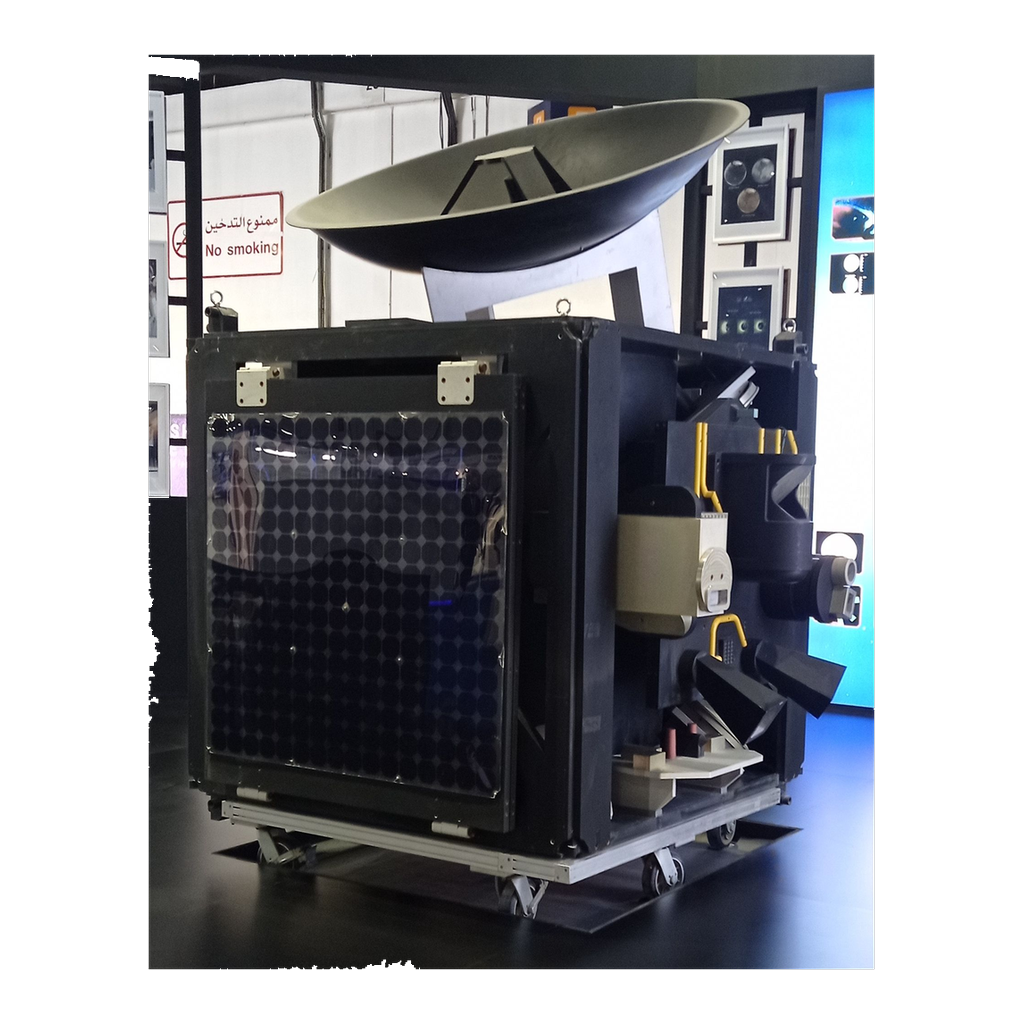
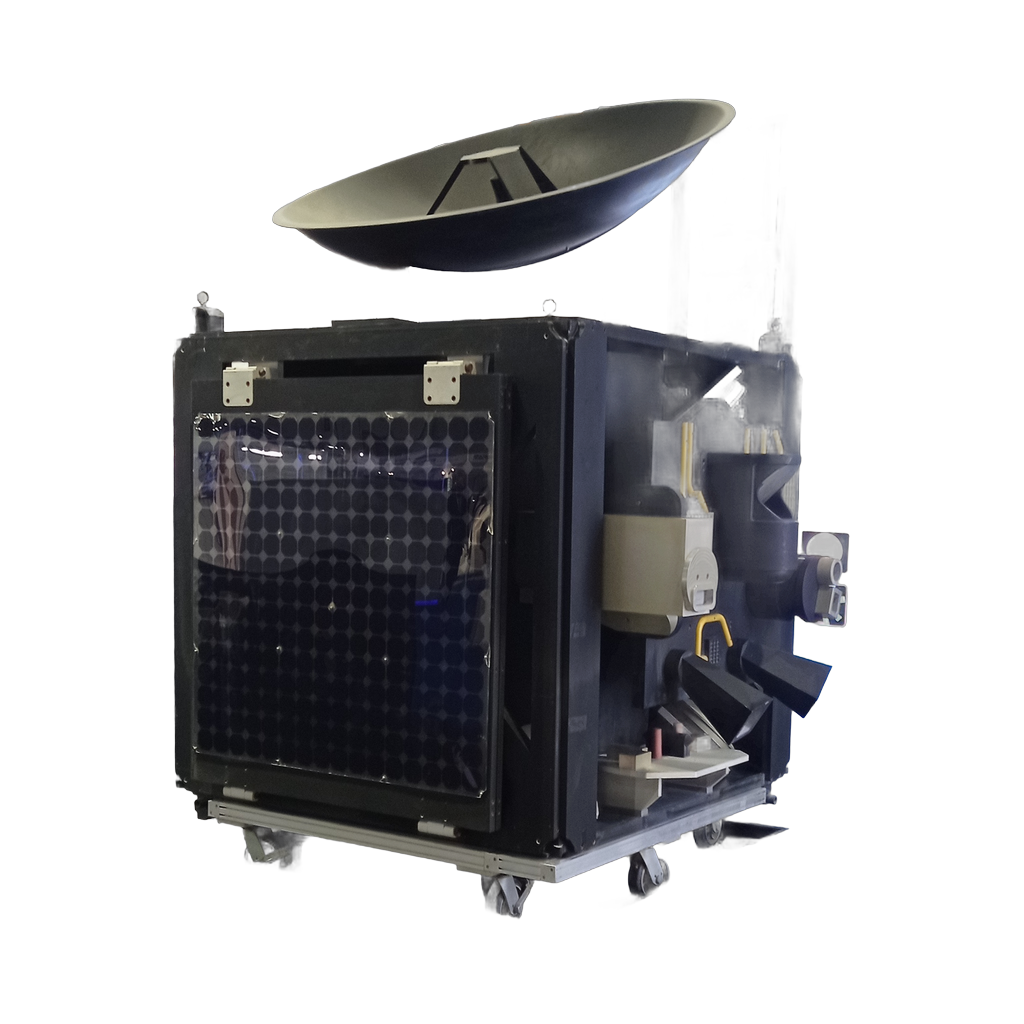
Put Hope and Solar Orbiter photos back on the map.
Those two were falling back to cartoons. Solar Orbiter uses ESA's cut-out render; Hope uses the IAC mockup with the hall removed.

diff --git a/src/BodyArt.test.tsx b/src/BodyArt.test.tsx
@@ -153,10 +153,6 @@ describe("cartoon body art", () => {
   it("has photos for every spacecraft in the catalog", () => {
     expect(SPACECRAFT_ART_IDS.length).toBeGreaterThan(20);
     for (const id of SPACECRAFT_ART_IDS) {
-      if (id === "solar-orbiter" || id === "hope") {
-        expect(BODY_ART[id]).toBeUndefined();
-        continue;
-      }
       expect(BODY_ART[id]).toBe(publicUrl(`bodies/${id}.png`));
       expect(fs.existsSync(path.join(repoRoot, "public", "bodies", `${id}.png`))).toBe(true);
     }
@@ -170,26 +166,6 @@ describe("cartoon body art", () => {
         stdio: ["ignore", "pipe", "pipe"],
       }),
     ).not.toThrow();
-  });
-
-  it("draws Solar Orbiter as a probe, not a square sun photo", () => {
-    const { container } = render(
-      <svg>
-        <BodyArt id="solar-orbiter" radius={16} color="#e8b060" type="spacecraft" />
-      </svg>,
-    );
-    expect(container.querySelector("image")).toBeNull();
-    expect(container.querySelector('[data-testid="art-solar-orbiter"]')).not.toBeNull();
-  });
-
-  it("draws Hope as a probe, not a museum hall photo", () => {
-    const { container } = render(
-      <svg>
-        <BodyArt id="hope" radius={16} color="#f0c070" type="spacecraft" />
-      </svg>,
-    );
-    expect(container.querySelector("image")).toBeNull();
-    expect(container.querySelector('[data-testid="art-hope"]')).not.toBeNull();
   });
 
   it("draws spacecraft from photos, not planet stickers or cartoon probes", () => {

diff --git a/src/bodyArtAssets.ts b/src/bodyArtAssets.ts
@@ -81,7 +81,7 @@ export const BODY_ART: Record<string, string> = {
   "wild-2": body("wild-2"),
   "shoemaker-levy-9": body("shoemaker-levy-9"),
   ...Object.fromEntries(
-    SPACECRAFT_CATALOG.filter((craft) => craft.id !== "solar-orbiter" && craft.id !== "hope").map((craft) => [
+    SPACECRAFT_CATALOG.map((craft) => [
       craft.id,
       body(craft.id),
     ]),

diff --git a/scripts/process-spacecraft-png.py b/scripts/process-spacecraft-png.py
@@ -16,10 +16,11 @@ DARK_LUMA = 22
 SCENE_RATIO = 0.28
 MIN_OPAQUE = 8_000
 
-FORCE_REMBG: set[str] = set()
+FORCE_REMBG = {"hope"}
 PRE_CROP: dict[str, tuple[float, float, float, float]] = {}
 
 _session = None
+_hope_session = None
 
 
 def session():
@@ -29,8 +30,28 @@ def session():
     return _session
 
 
-def rembg_cutout(im: Image.Image) -> Image.Image:
-    return remove(im.convert("RGBA"), session=session()).convert("RGBA")
+def hope_session():
+    global _hope_session
+    if _hope_session is None:
+        _hope_session = new_session("isnet-general-use")
+    return _hope_session
+
+
+def rembg_cutout(im: Image.Image, craft_id: str = "") -> Image.Image:
+    chosen = hope_session() if craft_id == "hope" else session()
+    return remove(im.convert("RGBA"), session=chosen).convert("RGBA")
+
+
+def already_cutout(im: Image.Image) -> bool:
+    arr = np.array(im.convert("RGBA"))
+    height, width = arr.shape[:2]
+    corners = [
+        int(arr[2, 2, 3]),
+        int(arr[2, width - 3, 3]),
+        int(arr[height - 3, 2, 3]),
+        int(arr[height - 3, width - 3, 3]),
+    ]
+    return sum(1 for alpha in corners if alpha <= 16) >= 3
 
 
 def luma(pixel: np.ndarray) -> int:
@@ -288,7 +309,12 @@ def process_file(source: Path, dest: Path) -> None:
                     int(height * box[3]),
                 )
             )
-        cut = isolate_subject(rembg_cutout(frame)) if craft_id in FORCE_REMBG else pick_cutout(frame)
+        if already_cutout(frame):
+            cut = frame
+        elif craft_id in FORCE_REMBG:
+            cut = rembg_cutout(frame, craft_id)
+        else:
+            cut = pick_cutout(frame)
         fit_in_square(cut).save(dest)
 
 

diff --git a/scripts/assert-spacecraft-cutouts.py b/scripts/assert-spacecraft-cutouts.py
@@ -10,8 +10,7 @@ from PIL import Image
 ROOT = Path(__file__).resolve().parents[1]
 BODIES = ROOT / "public" / "bodies"
 
-# These use cartoon art; their photos are a sun or a museum hall.
-SKIP = {"solar-orbiter", "hope"}
+SKIP: set[str] = set()
 
 
 def main() -> int:

diff --git a/public/bodies/ATTRIBUTION.md b/public/bodies/ATTRIBUTION.md
@@ -77,7 +77,7 @@ Cartoon asteroid sprite: `asteroid-rock.png` from [OpenClipart #323535](https://
 | Spacecraft | Source |
 | --- | --- |
 | Parker Solar Probe | Solar Probe Plus spacecraft on approach to the sun.jpg |
-| Solar Orbiter | Solar Orbiter ESA20813950.jpg |
+| Solar Orbiter | NASA SVS ESA_Solo_16.png |
 | BepiColombo | BepiColombo spacecraft model.png |
 | Akatsuki | Akatsuki CG01.png |
 | ISS | ISS-56 International Space Station fly-around (07).jpg |

diff --git a/CHANGELOG.md b/CHANGELOG.md
@@ -7,6 +7,12 @@ and this project adheres to [Semantic Versioning](https://semver.org/spec/v2.0.0
 
 ## [Unreleased]
 
+## [0.29.2] - 2026-09-06
+
+### Fixed
+
+- Hope and Solar Orbiter use cut-out spacecraft photos on the map, like the other probes.
+
 ## [0.29.1] - 2026-09-06
 
 ### Fixed
